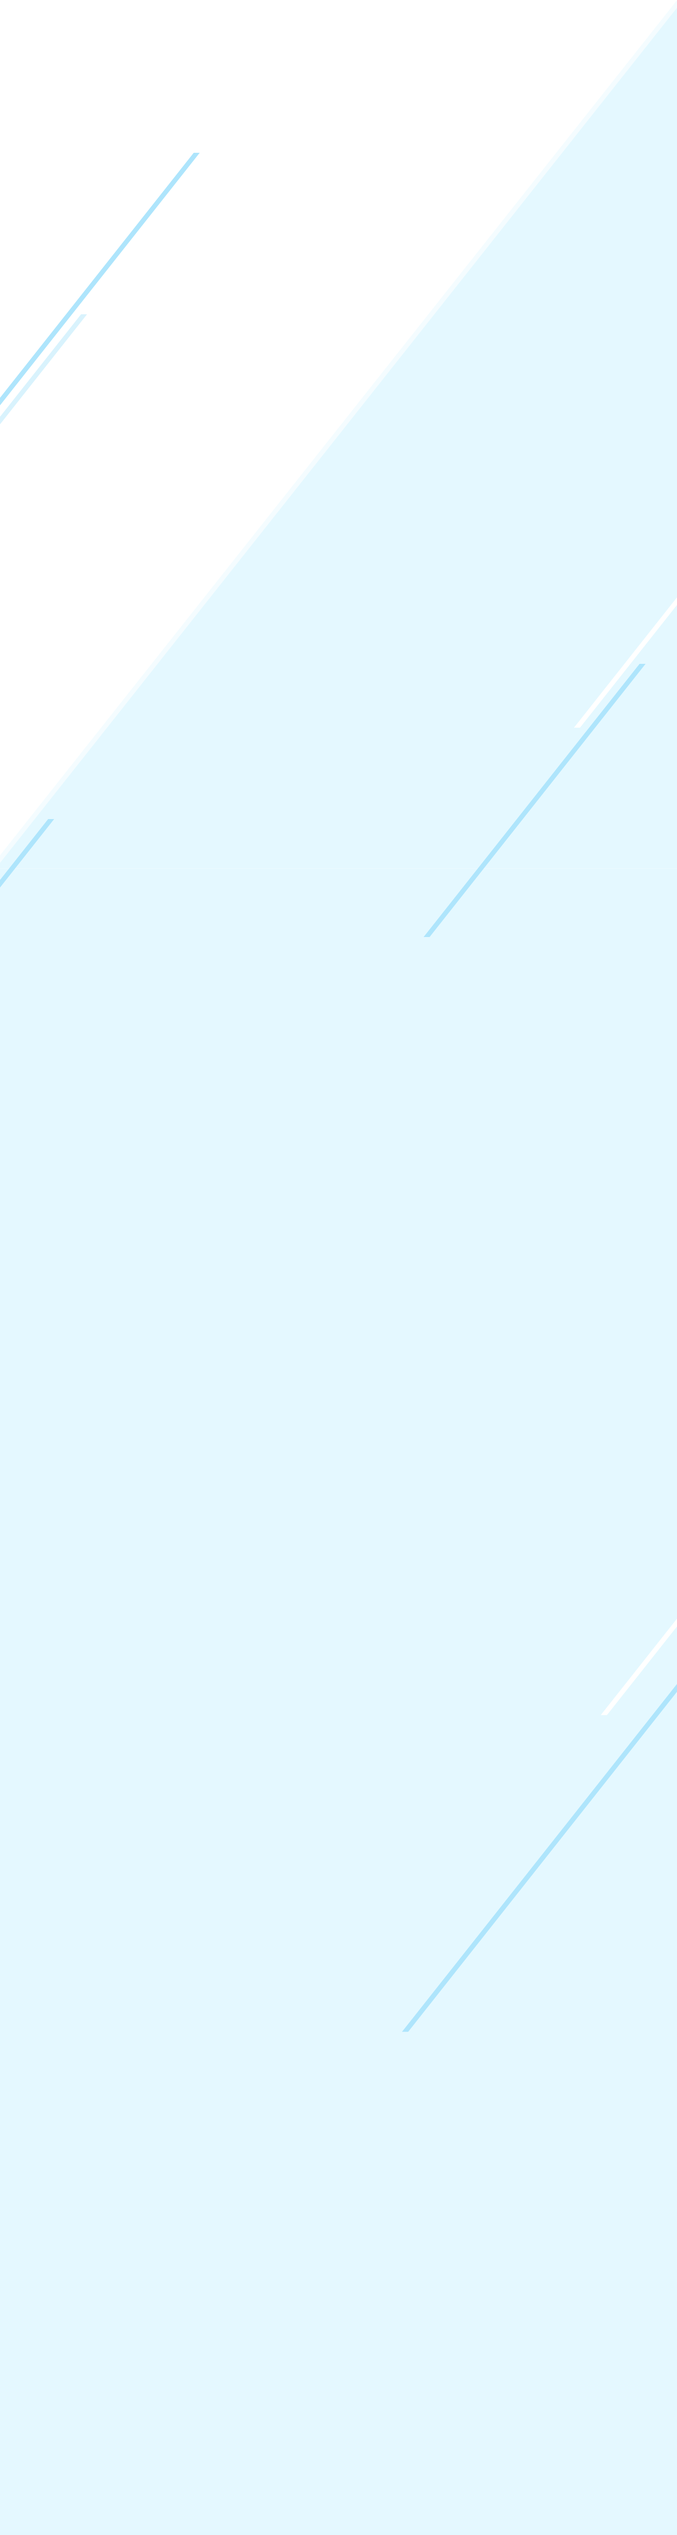
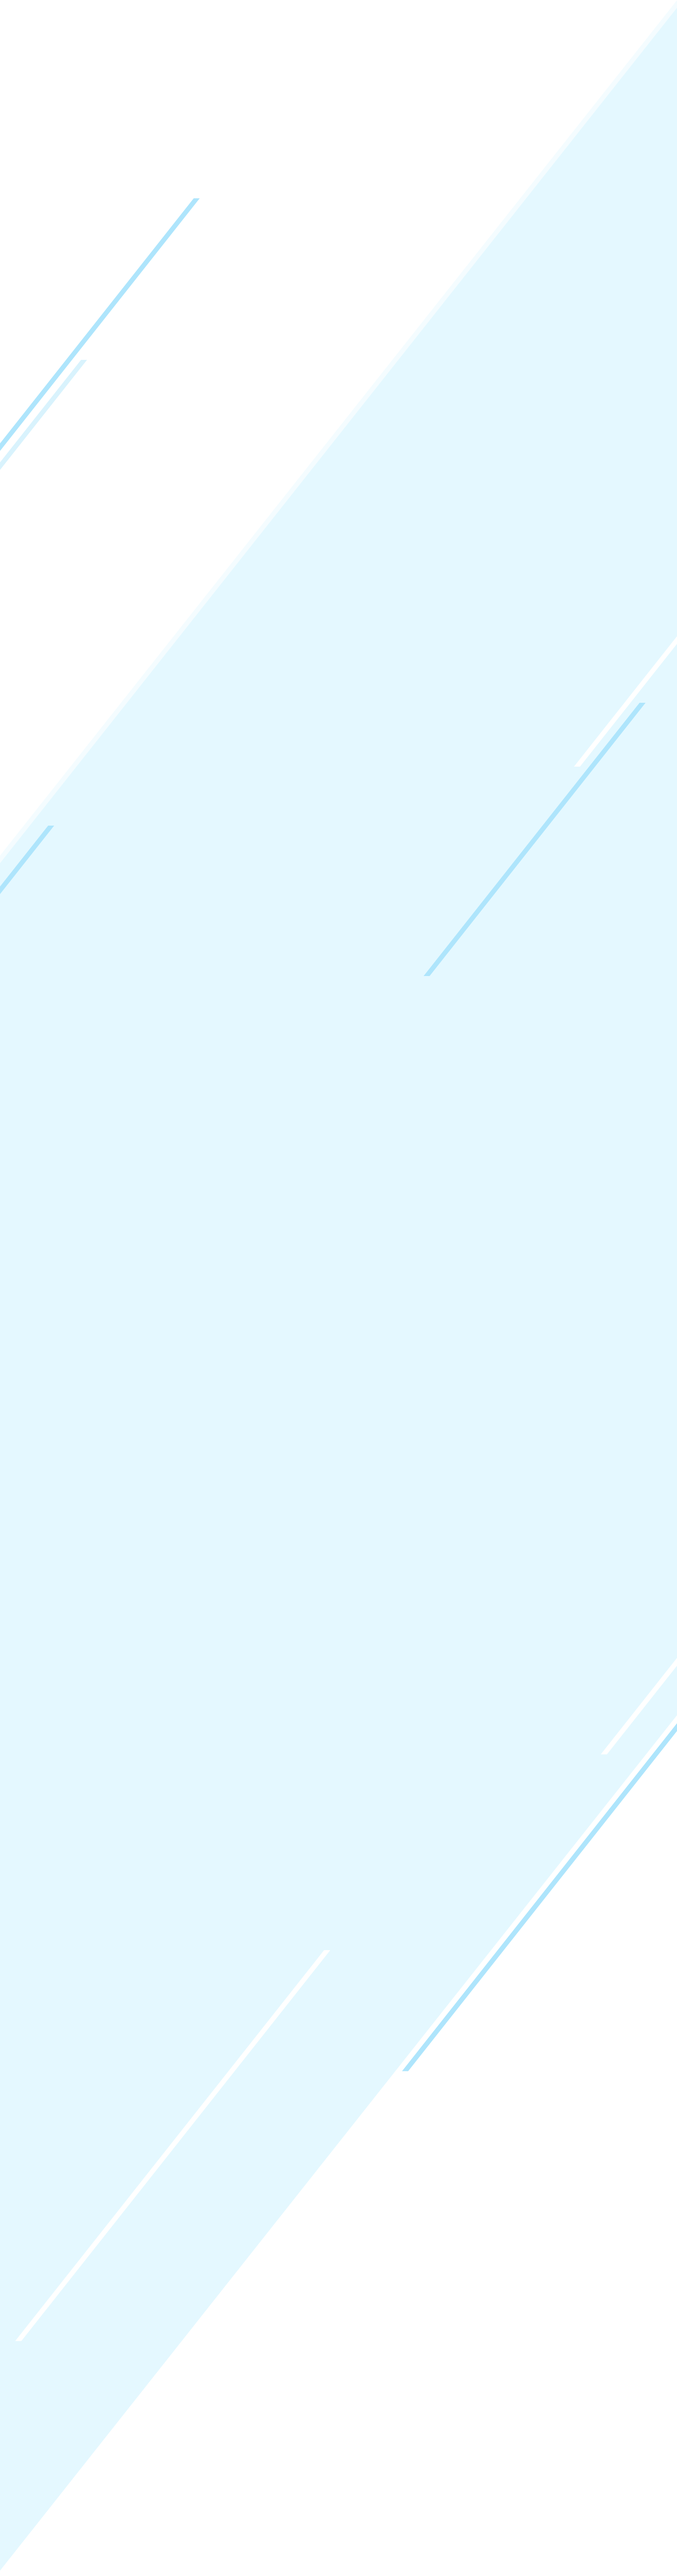
mainの背景サイズを修正

diff --git a/css/style.css b/css/style.css
@@ -627,7 +627,19 @@ header nav .contact_btn a:hover {
 /* main */
 /* ============================================ */
 .main_bg1 {
-  background: url(../images/main_bg1.png) left 0% top 100px/100% 100% no-repeat;
+  background: url(../images/main_bg1.png) left 0% top 0%/100% 100% no-repeat;
+}
+
+@media screen and (max-width: 1024px) {
+  .main_bg1 {
+    background: url(../images/main_bg1.png) center top 0%/200% 100% no-repeat;
+  }
+}
+
+@media screen and (max-width: 767px) {
+  .main_bg1 {
+    background: url(../images/main_bg1.png) center top 0%/300% 100% no-repeat;
+  }
 }
 
 .main_bg2 {
@@ -635,11 +647,23 @@ header nav .contact_btn a:hover {
   position: relative;
 }
 
+@media screen and (max-width: 1024px) {
+  .main_bg2 {
+    background: url(../images/main_bg2.png) center top 0%/200% 100% no-repeat;
+  }
+}
+
+@media screen and (max-width: 767px) {
+  .main_bg2 {
+    background: url(../images/main_bg2.png) center top 0%/300% 100% no-repeat;
+  }
+}
+
 .main_bg2:after {
   content: "";
   display: inline-block;
   width: 65%;
-  height: 1200px;
+  height: 1600px;
   background: url(../images/bottom_bg.png) center center/100% 100% no-repeat;
   position: absolute;
   bottom: 0;
@@ -649,14 +673,14 @@ header nav .contact_btn a:hover {
 @media screen and (max-width: 1024px) {
   .main_bg2:after {
     width: 75%;
-    height: 1000px;
+    height: 1300px;
   }
 }
 
 @media screen and (max-width: 767px) {
   .main_bg2:after {
     width: 85%;
-    height: 500px;
+    height: 600px;
   }
 }
 

diff --git a/css/_main.scss b/css/_main.scss
@@ -1,27 +1,39 @@
 /* main */
 /* ============================================ */
 .main_bg1 {
-  background: url(../images/main_bg1.png) left 0% top 100px / 100% 100% no-repeat;
+  background: url(../images/main_bg1.png) left 0% top 0% / 100% 100% no-repeat;
+  @include tab {
+    background: url(../images/main_bg1.png) center top 0% / 200% 100% no-repeat;
+  }
+  @include sp {
+    background: url(../images/main_bg1.png) center top 0% / 300% 100% no-repeat;
+  }
 }
 .main_bg2 {
   background: url(../images/main_bg2.png) left 0% top 320px / 100% 100% no-repeat;
   position: relative;
+  @include tab {
+    background: url(../images/main_bg2.png) center top 0% / 200% 100% no-repeat;
+  }
+  @include sp {
+    background: url(../images/main_bg2.png) center top 0% / 300% 100% no-repeat;
+  }
   &:after {
     content: "";
     display: inline-block;
     width: 65%;
-    height: 1200px;
+    height: 1600px;
     background: url(../images/bottom_bg.png) center center / 100% 100% no-repeat;
     position: absolute;
     bottom: 0;
     right: 0;
     @include tab {
       width: 75%;
-      height: 1000px;
+      height: 1300px;
     }
     @include sp {
       width: 85%;
-      height: 500px;
+      height: 600px;
     }
   }
 }
